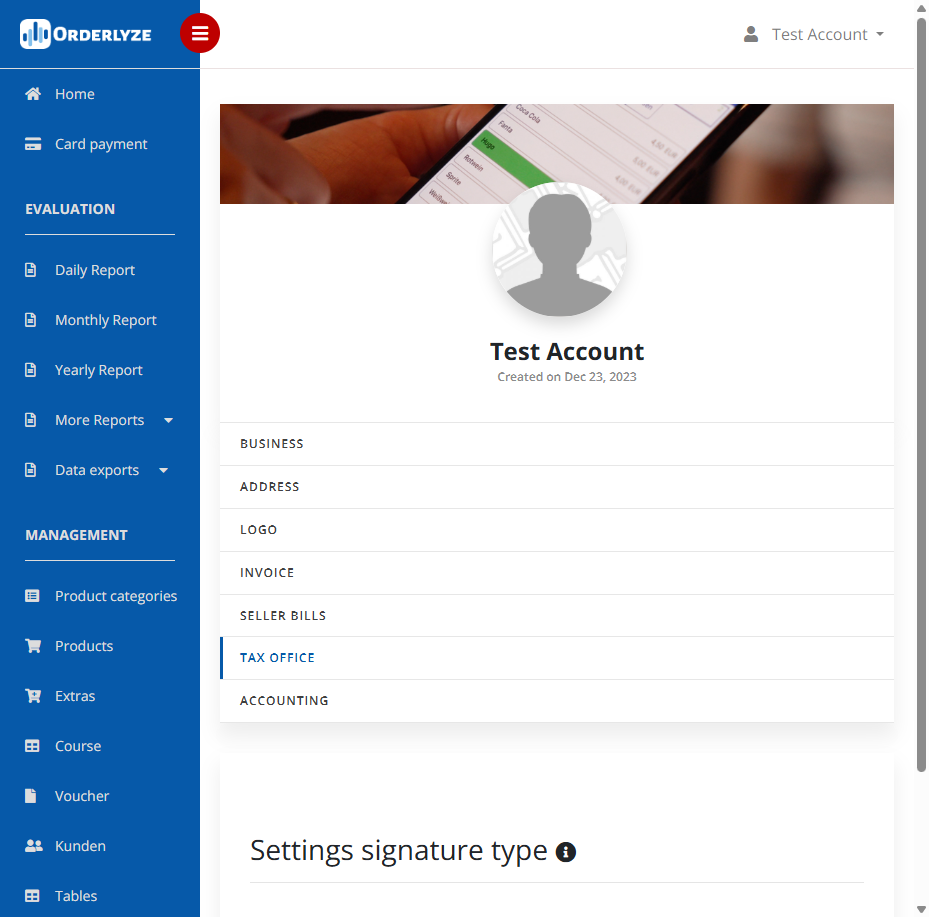
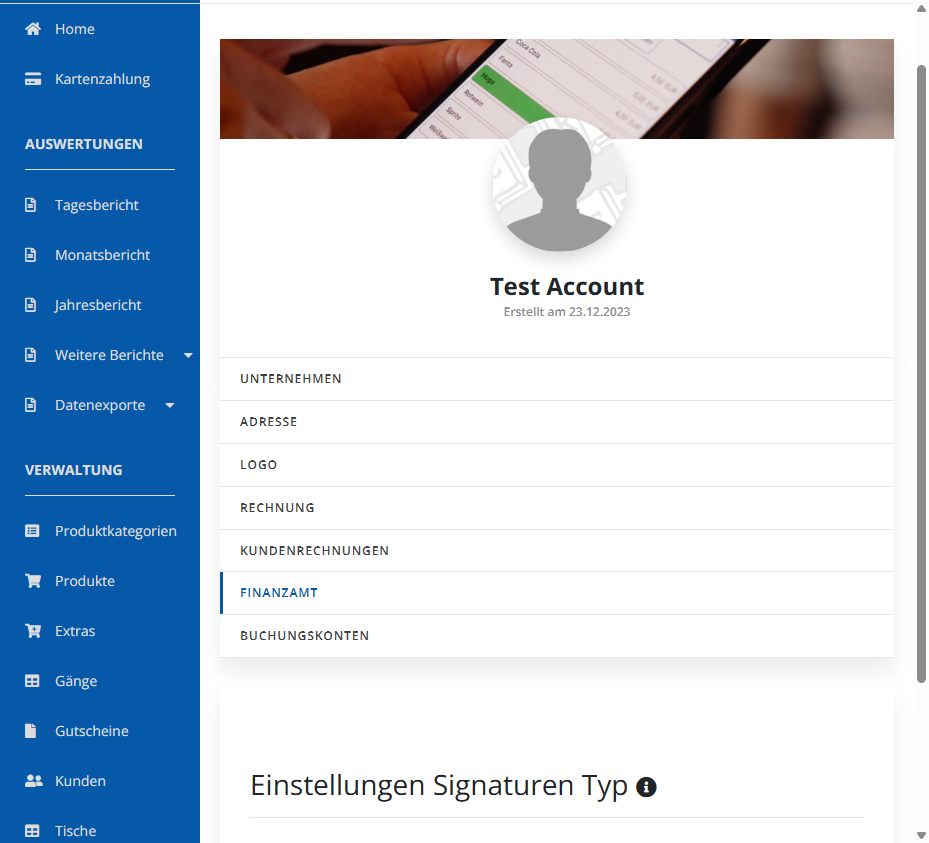
Update Profil-Doku und vereinfache Drucker-Troubleshooting
- Profil-Seite: Feldnamen an aktuelle App angepasst, neuer Abschnitt Kundenrechnungen
- Drucker-Troubleshooting: Vereinfacht und mit Support-Links ergänzt
- CORS-Header für API-Zugriff hinzugefügt
- Screenshots aktualisiert

diff --git a/docs/erste-schritte/profil/index.md b/docs/erste-schritte/profil/index.md
@@ -27,7 +27,7 @@ Im Profil-Bereich verwalten Sie Ihre Unternehmens- und Benutzereinstellungen.
 
 ### Stammdaten
 
-**Navigation:** Benutzername → Einstellungen → Geschäft
+**Navigation:** Benutzername → Einstellungen → Unternehmen
 
 ![Unternehmen Stammdaten](/screenshots/profil/unternehmen-stammdaten.png)
 
@@ -35,11 +35,11 @@ Hier konfigurieren Sie die grundlegenden Unternehmensdaten:
 
 | Feld | Beschreibung |
 |------|--------------|
-| Firmenname | Der Name Ihres Unternehmens (Pflichtfeld) |
-| USt-IdNr. / Steuer-ID | Ihre Umsatzsteuer-Identifikationsnummer |
-| E-Mail-Adresse | Kontakt-E-Mail für Ihr Unternehmen |
+| Unternehmensname | Der Name Ihres Unternehmens (Pflichtfeld) |
+| Umsatzsteuer-ID / Steuer-ID | Ihre Umsatzsteuer-Identifikationsnummer |
+| E-Mail Adresse | Kontakt-E-Mail für Ihr Unternehmen |
 | Telefon | Telefonnummer |
-| Webseite | Ihre Webseite |
+| Website | Ihre Webseite |
 | Land | Land (bestimmt steuerliche Einstellungen) |
 | Währung | Währung (EUR, CHF, UGX) |
 
@@ -54,7 +54,7 @@ Nach Änderungen klicken Sie auf **Speichern**.
 Geben Sie die vollständige Geschäftsadresse ein:
 
 - **Straße** - Straße und Hausnummer (Pflichtfeld)
-- **PLZ** - Postleitzahl (Pflichtfeld)
+- **Postleitzahl** - Postleitzahl (Pflichtfeld)
 - **Stadt** - Stadt (Pflichtfeld)
 - **Land** - Land (Pflichtfeld)
 
@@ -83,15 +83,15 @@ Für den Druck des Logos auf physischen Belegen kontaktieren Sie das Orderlyze-T
 Gestalten Sie das Aussehen Ihrer Rechnungen:
 
 **Design-Optionen:**
-- **Standard-Design** - Standard-Layout
+- **Standard Design** - Standard-Layout
 - **Eigenes Design** - Eigenes Layout
 
 **Kopfzeile (Header):**
-- Firmenname
+- Unternehmensname
 - Straße
-- PLZ und Stadt
-- USt-IdNr. / Steuernummer
-- Telefon
+- Postleitzahl und Stadt
+- Ust-Id / Steuernummer
+- Telefonnummer
 - E-Mail
 - Website
 
@@ -99,6 +99,22 @@ Gestalten Sie das Aussehen Ihrer Rechnungen:
 - Individueller Text (z.B. "Vielen Dank für Ihren Besuch!")
 
 Die Vorschau zeigt, wie Ihre Rechnung aussehen wird.
+
+### Kundenrechnungen
+
+**Navigation:** Benutzername → Einstellungen → Kundenrechnungen
+
+![Kundenrechnungen](/screenshots/profil/unternehmen-kundenrechnungen.png)
+
+Hier sehen Sie eine Übersicht Ihrer Orderlyze-Lizenzen und Rechnungen:
+
+| Spalte | Beschreibung |
+|--------|--------------|
+| Rechnungsnummer | Eindeutige Nummer der Rechnung |
+| Betrag | Rechnungsbetrag |
+| Rechnungsdatum | Datum der Rechnungsstellung |
+| Fällig am | Fälligkeitsdatum |
+| Status | Zahlungsstatus der Rechnung |
 
 ### Finanzamt
 
@@ -112,11 +128,11 @@ Hier verwalten Sie die Verbindung zum Finanzamt für die Registrierkassenpflicht
 Die Einrichtung der Finanzamt-Verbindung erfolgt durch das Orderlyze-Team.
 :::
 
-### Buchhaltung
+### Buchungskonten
 
-**Navigation:** Benutzername → Einstellungen → Buchhaltung
+**Navigation:** Benutzername → Einstellungen → Buchungskonten
 
-![Buchhaltung](/screenshots/profil/unternehmen-buchhaltung.png)
+![Buchungskonten](/screenshots/profil/unternehmen-buchhaltung.png)
 
 Konfigurieren Sie die Konten für den Buchhaltungsexport (BMD, RZL, DATEV):
 
@@ -147,11 +163,11 @@ Verwalten Sie Ihre persönlichen Benutzerdaten:
 - Vorname
 - Nachname
 - Benutzername (wird in der App angezeigt)
-- E-Mail-Adresse (für Login)
+- E-Mail Adresse (für Login)
 - Passwort
 
 **Details:**
-- Geburtsdatum
+- Geburtstag
 - Telefon
 - Letzte Änderung
 

diff --git a/docs/troubleshooting/drucker-druckt-nicht.md b/docs/troubleshooting/drucker-druckt-nicht.md
@@ -18,77 +18,42 @@ searchTerms:
 
 # Drucker druckt nicht
 
-Wenn Ihr Bondrucker keine Belege ausdruckt, finden Sie hier mögliche Ursachen und Lösungen.
+## Ist das Druckersymbol grün?
 
-## Schnellcheck
+Prüfen Sie rechts oben in der App, ob das Druckersymbol grün ist. Wenn nicht, ist der Drucker nicht verbunden.
 
-Prüfen Sie zuerst diese Punkte:
+## Drucker offline
 
-- [ ] Ist der Drucker eingeschaltet?
-- [ ] Ist Papier eingelegt?
-- [ ] Leuchtet die Betriebs-LED?
-- [ ] Ist das Kabel/die Verbindung intakt?
+Wenn der Drucker offline ist: **Alles ausstecken, wieder einstecken und einschalten.**
 
-## Mögliche Ursachen und Lösungen
+## Drucker neu verbinden
 
-### 1. Drucker ist nicht verbunden
+Bitte laut Anleitung den Drucker neu verbinden: https://www.orderlyze.com/drucker-verbinden
 
-**Symptom:** Der Drucker erscheint als "Offline" in den Einstellungen.
+## Papier prüfen
 
-**Lösung:**
+Papier raus, neu reinlegen und die Abdeckung gut zumachen. Drucker dann neu am Strom einstecken.
 
-1. Öffnen Sie **Einstellungen** → **Drucker**
-2. Prüfen Sie den Verbindungsstatus
-3. Tippen Sie auf **Neu verbinden**
-4. Warten Sie bis die Verbindung hergestellt ist
+## Druckertyp prüfen
 
-### 2. Netzwerkproblem (bei WLAN-Druckern)
+In der App unter **Menü → Einstellungen → DruckerTyp** den richtigen Drucker einstellen (z.B. Epson 58, Epson 80, STAR).
 
-**Symptom:** Drucker und Gerät sind nicht im selben Netzwerk.
+## LAN-Drucker
 
-**Lösung:**
+Ist der Drucker mit einem LAN-Kabel am Router verbunden? LAN-Drucker funktionieren nur mit Kabel.
 
-1. Prüfen Sie ob Ihr Gerät mit dem WLAN verbunden ist
-2. Prüfen Sie ob der Drucker im selben WLAN ist
-3. Starten Sie den Router neu falls nötig
-4. Starten Sie den Drucker neu
+Anleitung für Cloud-Drucker: https://www.orderlyze.com/cloud-drucker
 
-### 3. Bluetooth-Verbindung unterbrochen
+## Bluetooth-Drucker
 
-**Symptom:** Bluetooth-Symbol zeigt keine Verbindung.
+Bitte bei der Druckerauswahl auf **Bluetooth** gehen und den Drucker auswählen.
 
-**Lösung:**
+Anleitung: https://www.orderlyze.com/bluetooth-drucker
 
-1. Öffnen Sie die Bluetooth-Einstellungen Ihres Geräts
-2. Entfernen Sie den Drucker aus der Liste
-3. Koppeln Sie den Drucker erneut
-4. Verbinden Sie in Orderlyze neu
+## Kategorien doppelt?
 
-### 4. Druckerwarteschlange blockiert
-
-**Symptom:** Druckaufträge werden nicht verarbeitet.
-
-**Lösung:**
-
-1. Öffnen Sie **Einstellungen** → **Drucker**
-2. Tippen Sie auf **Warteschlange leeren**
-3. Führen Sie einen **Testdruck** durch
-
-### 5. Papier-Problem
-
-**Symptom:** Drucker blinkt oder zeigt Fehler-LED.
-
-**Lösung:**
-
-1. Öffnen Sie die Papierabdeckung
-2. Prüfen Sie ob Papier korrekt eingelegt ist
-3. Entfernen Sie ggf. Papierstau
-4. Schließen Sie die Abdeckung
+Wenn Kategorien bei mehreren Druckern doppelt eingespeichert sind, funktionieren die Drucker nicht. Bitte eine Kategorie nur bei einem Drucker speichern.
 
 ## Problem besteht weiterhin?
 
-Wenn keine der Lösungen hilft:
-
-1. Notieren Sie die genaue Fehlermeldung
-2. Kontaktieren Sie unseren [Support](mailto:support@orderlyze.com)
-3. Halten Sie Druckermodell und Orderlyze-Version bereit
+Kontaktieren Sie den Support per WhatsApp: https://wa.me/4367761068190
